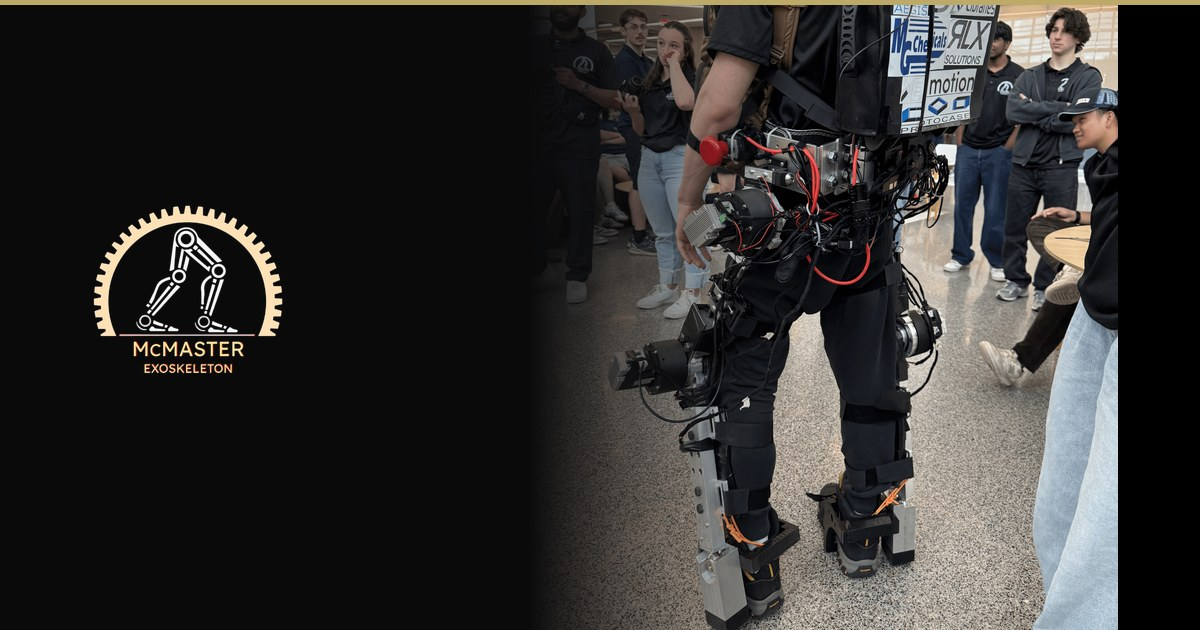
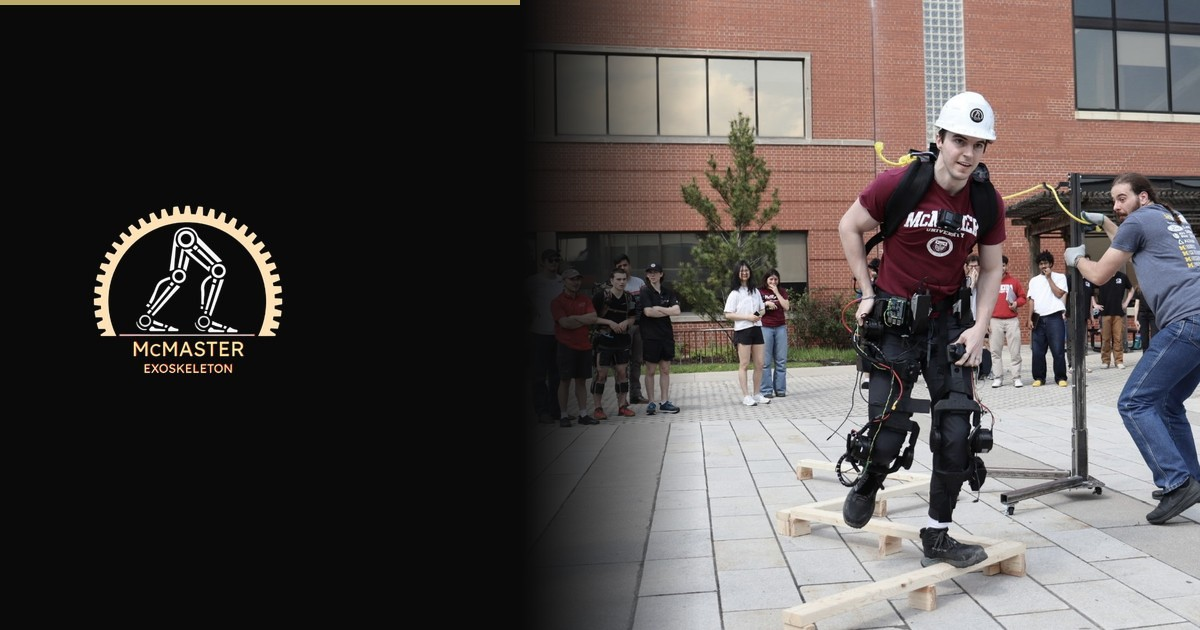
fix(media): show the current suit outside the competition journal

diff --git a/components/HomeSystems.tsx b/components/HomeSystems.tsx
@@ -12,9 +12,9 @@ import { getSubteam } from "@/data/subteams";
  * which had already drifted from the canonical copy word for word.
  */
 const PANELS = [
-  { id: "mechanical", title: "Fit the person. Guide the movement.", tags: ["Waist", "Linkages"], x: 66, y: 61, label: "Knee assembly" },
-  { id: "electrical", title: "Connect power, sensing and actuation.", tags: ["Power Architecture", "Actuation & Sensing"], x: 68, y: 20, label: "Electronics enclosure" },
-  { id: "software", title: "The code behind the movement.", tags: ["Embedded & Controls", "AI & Machine Learning"], x: 44, y: 38, label: "Onboard prediction & control" },
+  { id: "mechanical", title: "Fit the person. Guide the movement.", tags: ["Waist", "Linkages"], x: 41, y: 68, label: "Knee assembly" },
+  { id: "electrical", title: "Connect power, sensing and actuation.", tags: ["Power Architecture", "Actuation & Sensing"], x: 43, y: 21, label: "Electronics enclosure" },
+  { id: "software", title: "The code behind the movement.", tags: ["Embedded & Controls", "AI & Machine Learning"], x: 71, y: 28, label: "Onboard prediction & control" },
 ] as const;
 
 const SYSTEMS = PANELS.map(panel => {
@@ -28,8 +28,8 @@ export default function HomeSystems() {
   return (
     <div className="systems-layout">
       <figure className="systems-photo">
-        <Image src="/ace_2025/full_suit_image.png" alt="The 2025 McMaster exoskeleton showing its control pack, wiring and powered leg joints." fill sizes="(max-width: 760px) 100vw, 40vw" className="object-cover" />
-        <span className="photo-index">EXO / 2025</span>
+        <Image src="/design/suit-leg.jpg" alt="The McMaster exoskeleton worn by a pilot, showing its waist electronics, wiring and powered leg joints." fill sizes="(max-width: 760px) 100vw, 40vw" className="object-cover" />
+        <span className="photo-index">EXO / 2026</span>
         <span className="system-marker" style={{ left: `${system.x}%`, top: `${system.y}%` }} aria-hidden="true"><span>+</span></span>
         <figcaption><span>{String(active + 1).padStart(2, "0")} / {system.label}</span><span>Actual team hardware</span></figcaption>
       </figure>

diff --git a/data/subteamPresentation.ts b/data/subteamPresentation.ts
@@ -5,8 +5,8 @@ export const SUBTEAM_PRESENTATION: Record<Subteam["slug"], {
 }> = {
   mechanical: {
     index: "01", title: "Make it strong.", accent: "Make it move.",
-    image: "/ace_2025/juan_stair_climb.png",
-    imageAlt: "A pilot’s powered leg frame during a stair-climbing event, with teammates alongside.",
+    image: "/ace_2026/IMG_4369.jpg",
+    imageAlt: "A pilot stepping over an obstacle in the powered suit, its leg structure carrying the movement.",
   },
   electrical: {
     index: "02", title: "Power every", accent: "possibility.",
@@ -15,8 +15,8 @@ export const SUBTEAM_PRESENTATION: Record<Subteam["slug"], {
   },
   software: {
     index: "03", title: "Turn intent", accent: "into movement.",
-    image: "/ace_2025/working_on_suit.JPG",
-    imageAlt: "McMaster students working together on the exoskeleton.",
+    image: "/design/suit-leg.jpg",
+    imageAlt: "The suit’s leg-mounted controller enclosures and wiring alongside its powered joints.",
   },
   safety: {
     index: "04", title: "A person comes", accent: "before a prototype.",

diff --git a/app/design/page.tsx b/app/design/page.tsx
@@ -19,10 +19,10 @@ export default function DesignPage() {
         eyebrow="The design / McMaster Exoskeleton"
         title="One suit."
         accent="Built together."
-        image="/ace_2025/working_on_suit.JPG"
-        imageAlt="McMaster students fitting the exoskeleton around their pilot and adjusting its waist and leg assemblies."
+        image="/ace_2026/IMG_4800.JPG"
+        imageAlt="McMaster students kneeling beside their pilot to adjust the exoskeleton’s leg assemblies."
         focal="55% 48%"
-        imageCaption="Bringing the suit together / 2025"
+        imageCaption="Bringing the suit together / 2026"
         actions={<><a href="#the-suit" className="home-button">Explore the suit <ArrowRight /></a><SoftwareJumpLink /></>}
         below={<PageNav items={[{ href: "#the-suit", label: "Explore the suit" }, { href: "#systems", label: "Design priorities" }, { href: "#subteams", label: "Our subteams" }]} />}
       >
